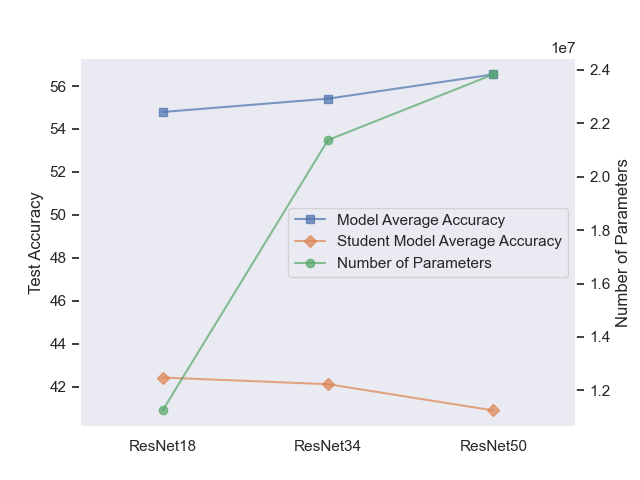
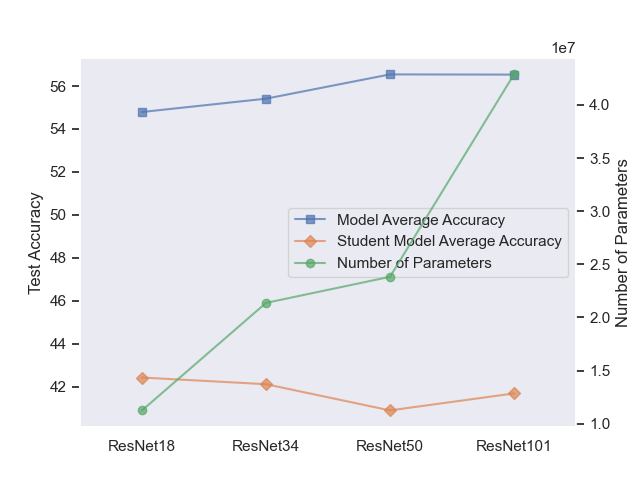
add scripts

diff --git a/plot2.py b/plot2.py
@@ -6,8 +6,7 @@ sns.set_theme()
 fig, ax = plt.subplots()
 # Turns off grid on the left Axis.
 ax.grid(False)
-# x_labels = ["ResNet18", "ResNet34", "ResNet50", "ResNet101"]
-x_labels = ["ResNet18", "ResNet34", "ResNet50"]
+x_labels = ["ResNet18", "ResNet34", "ResNet50", "ResNet101"]
 x_positions = range(len(x_labels))
 plt.xticks(x_positions, x_labels)
 twin = ax.twinx()
@@ -15,7 +14,7 @@ twin.grid(False)
 
 (p1,) = ax.plot(
     x_positions,
-    [54.79, 55.41, 56.54],
+    [54.79, 55.41, 56.54, 56.53],
     "C0",
     marker="s",
     # linestyle="--",
@@ -24,7 +23,7 @@ twin.grid(False)
 )
 (p2,) = ax.plot(
     x_positions,
-    [42.43, 42.12, 40.90],
+    [42.43, 42.12, 40.90, 41.69],
     "C1",
     marker="D",
     # linestyle="--",
@@ -33,7 +32,7 @@ twin.grid(False)
 )
 (p3,) = twin.plot(
     x_positions,
-    [11253086, 21368686, 23824767],
+    [11253086, 21368686, 23824767, 42869170, 58558949],
     "C2",
     label="Number of Parameters",
     marker="o",

diff --git a/plot3.py b/plot3.py
@@ -1,0 +1,21 @@
+import matplotlib.pyplot as plt
+import seaborn as sns
+
+sns.set_theme()
+
+x = list(range(0, 21))
+
+a_stu = list(range(0, 21))
+a = list(range(0, 21))
+
+a_stu_beta_2 = list(range(0, 21))
+a_beta_2 = list(range(0, 21))
+
+plt.plot(x, a_stu, label=r'Student Model Average Accuracy($\beta=0.5$)')
+plt.plot(x, a_stu_beta_2, label=r'Student Model Average Accuracy($\beta=2.0$)')
+plt.plot(x, a, label=r'Model Average Accuracy($\beta=0.5$)')
+plt.plot(x, a_beta_2, label=r'Model Average Accuracy($\beta=2.0$)')
+
+plt.xticks(x)
+plt.legend()
+plt.savefig("plot3.png")

diff --git a/test_model.py b/test_model.py
@@ -36,8 +36,8 @@ if __name__ == "__main__":
     m1 = CifarMLP()
     m2 = CifarCNN()
     m3 = CifarResNet(backbone='resnet18')
-    m4 = CifarResNet(backbone='resnet34')
-    m5 = CifarResNet(backbone='resnet50')
+    m4 = CifarResNet(backbone='resnet101')
+    m5 = CifarResNet(backbone='resnet152')
 
     input = torch.randn((32, 3, 32, 32))
 

diff --git a/README.md b/README.md
@@ -12,3 +12,9 @@ python hm_main.py --train_rule FedTS --local_bs 64 --dataset cifar --beta 0.5 --
   + `FedL2Reg`
   + `FedProx`
   + `pFedGraph` 
+
+
+## Scripts
+
++ Train on different teacher architectures: `. scripts/train_model_arch.sh`.
++ Train on different teacher percent: `. scripts/train_teacher_percent.sh`.
